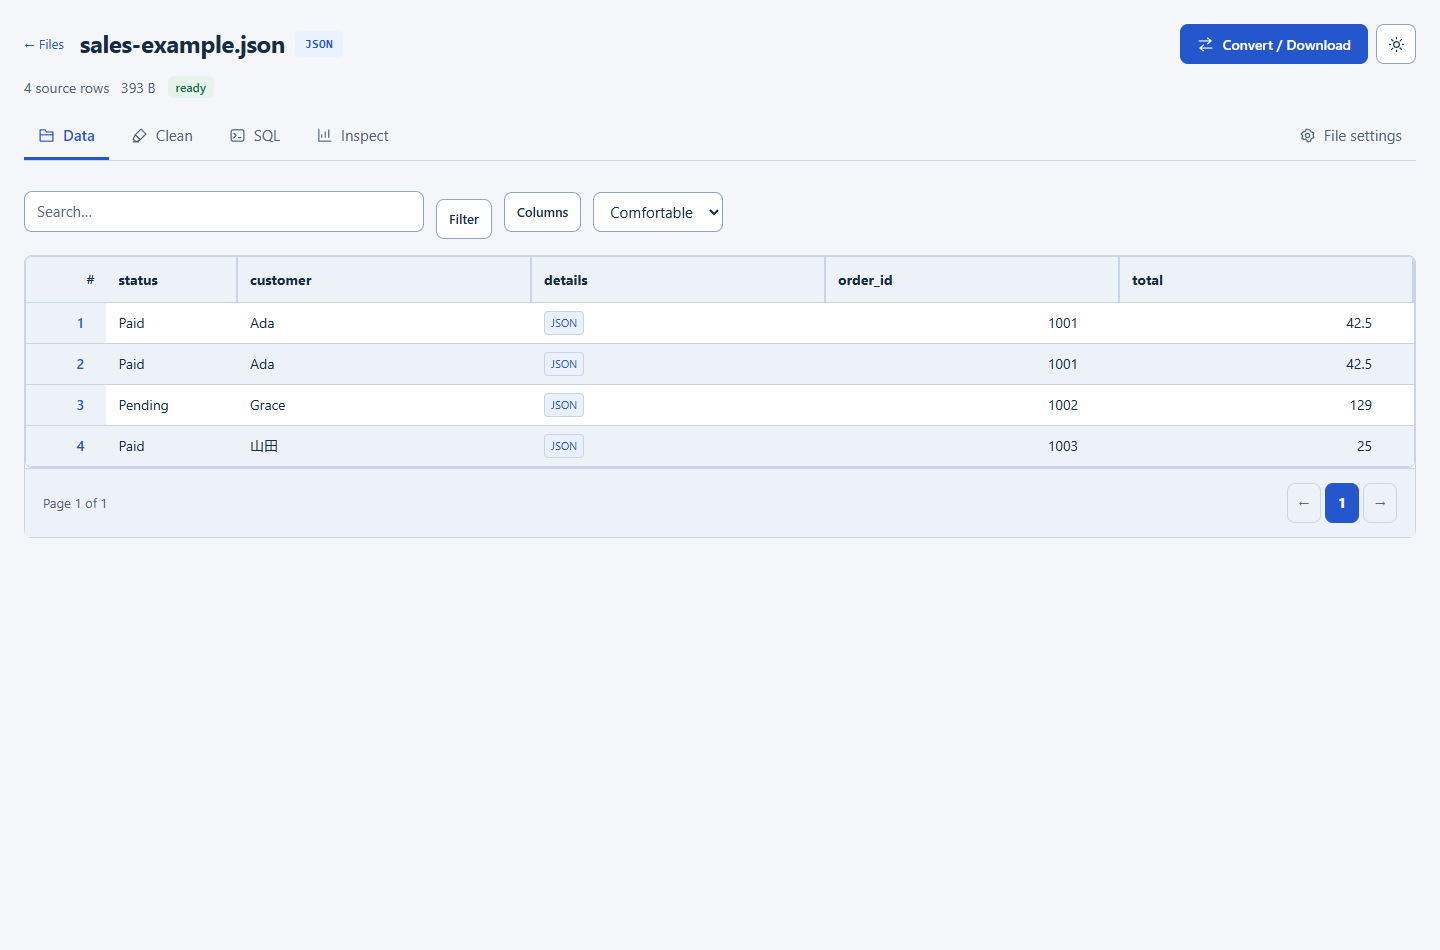
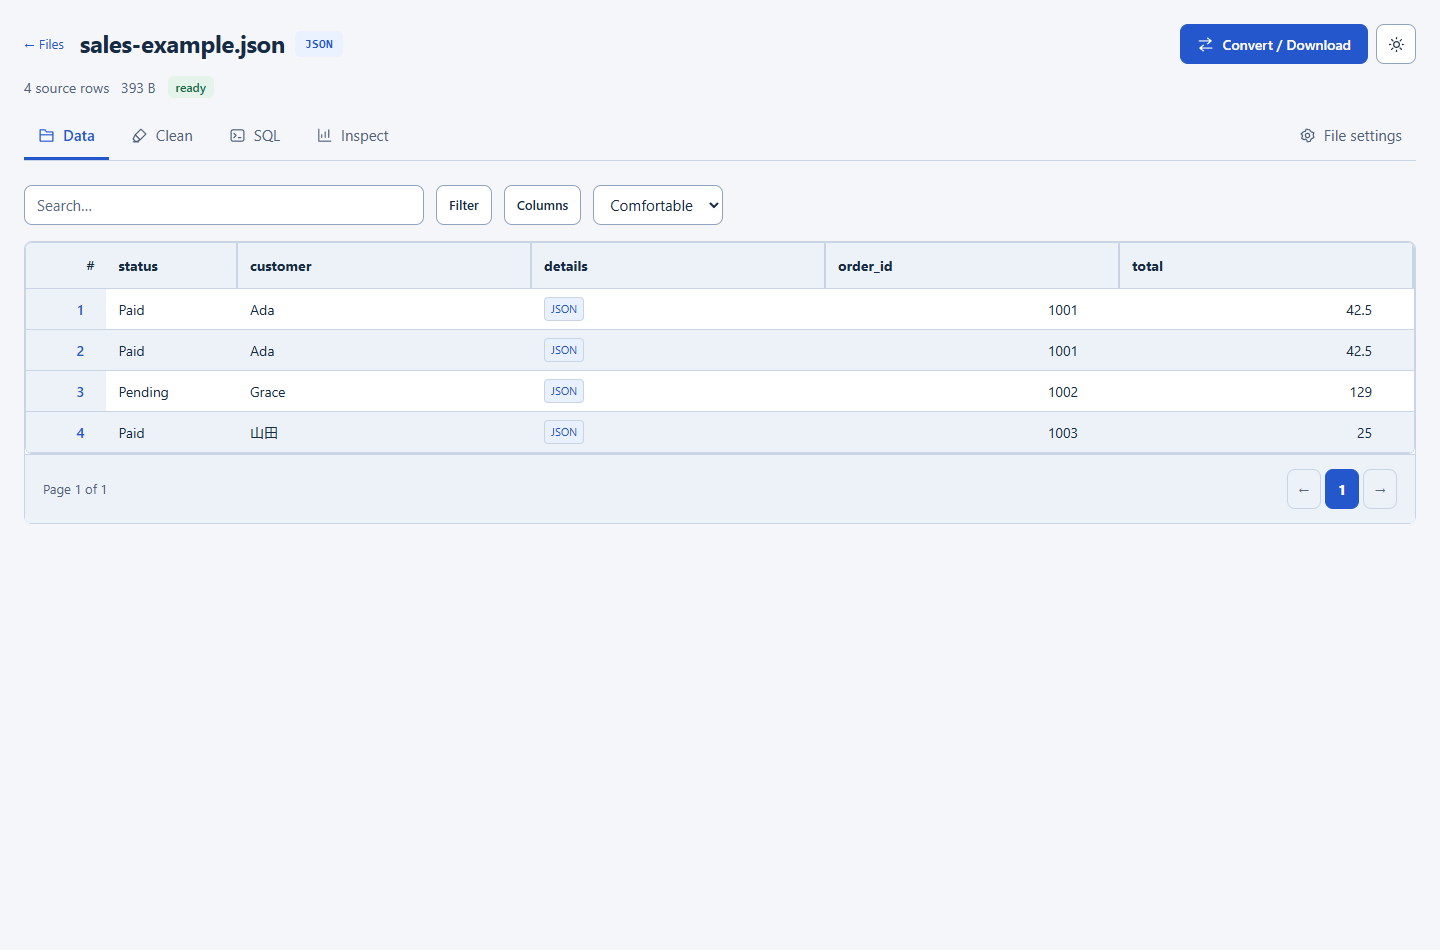
Fix Data toolbar alignment and cover expanded controls

Changed region(s): [[0.0312, 0.1832, 0.9688, 0.5495]]

diff --git a/scripts/file-workspace-checks.js b/scripts/file-workspace-checks.js
@@ -24,6 +24,38 @@ async (page, artifactDir) => {
    return [...new Set(issues)];
   });if(problems.length)throw Error(label+': '+problems.join('; '));
  };
+ const toolbarLayout=async (scope,label)=>{
+  const problems=await scope.locator('.sheet-query-bar').evaluateAll(groups=>{
+   const issues=[];
+   for(const group of groups){
+    if(!group.checkVisibility())continue;
+    const controls=[...group.querySelectorAll('.sheet-search input,.toolbar-disclosure>summary,.sheet-density select,.sheet-search-submit')].filter(e=>e.checkVisibility()).map(e=>({name:e.getAttribute('aria-label')||e.tagName,box:e.getBoundingClientRect()}));
+    for(let i=0;i<controls.length;i++)for(let j=i+1;j<controls.length;j++){
+     const a=controls[i],b=controls[j],ac=(a.box.top+a.box.bottom)/2,bc=(b.box.top+b.box.bottom)/2;
+     if(Math.abs(ac-bc)<20&&(Math.abs(a.box.top-b.box.top)>1||Math.abs(a.box.bottom-b.box.bottom)>1))issues.push('Misaligned '+a.name+' / '+b.name);
+    }
+   }return issues;
+  });if(problems.length)throw Error(label+': '+problems.join('; '));
+ };
+ const checkToolbar=async (scope,label)=>{
+  for(const width of [320,390,768,1024,1440,2560]){
+   await page.setViewportSize({width,height:1000});
+   for(const theme of ['light','dark']){
+    await page.evaluate(t=>document.documentElement.dataset.theme=t,theme);
+    for(const density of ['compact','comfortable']){
+     await scope.locator('[data-sheet-density]').selectOption(density);
+     await toolbarLayout(scope,label+' '+width+' '+theme+' '+density);
+    }
+   }
+   for(const name of ['Filter and sort','Columns and table options']){
+    const summary=scope.getByLabel(name,{exact:true});await summary.click();
+    const fits=await summary.evaluate(el=>{const details=el.parentElement,bar=details.closest('.sheet-query-bar');return details.getBoundingClientRect().width>=bar.getBoundingClientRect().width-1&&getComputedStyle(details).marginTop==='0px';});
+    if(!fits)throw Error(label+' expanded '+name+' has cramped width or extra margin at '+width);
+    await summary.click();
+   }
+  }
+  await page.setViewportSize({width:1440,height:1000});
+ };
  const open=async key=>{
   if(['insights','quality','schema','raw'].includes(key)){await page.locator('.workspace-primary-views [data-workspace-target=insights]').click();await settled();if(key!=='insights'){await page.locator('[data-workspace-group=inspect] [data-workspace-target='+key+']').click();await settled();}}
   else if(key==='settings'){if(await page.locator('.workspace-file-action').isVisible())await page.locator('.workspace-file-action').click();else{await page.locator('.workspace-more>summary').click();await page.locator('.workspace-extra-tools [data-workspace-target=settings]').click();}await settled();}
@@ -38,10 +70,11 @@ async (page, artifactDir) => {
   if(await page.locator('link[rel=stylesheet]').count()!==3)throw Error('Legacy stylesheet layers still load');
   await page.locator('#detail-content .sheet-data').waitFor();
   for(const width of [320,390,768,1024,1440,2560]){await page.setViewportSize({width,height:1000});await fit('Data '+width);}
-  await page.setViewportSize({width:1440,height:1000});
+  await checkToolbar(page.locator('#detail-content'),'Original toolbar');
   await open('clean');if(await page.locator('#workspace-original').getAttribute('open')!==null)throw Error('Original starts expanded in Clean');
   await pane.getByLabel('Change',{exact:true}).selectOption('trim');await pane.getByLabel('Column',{exact:true}).selectOption('name');await pane.getByRole('button',{name:'Apply change',exact:true}).click();
   await result.locator('.sheet-data').waitFor();await result.locator('[data-cleaned-total="60"]').waitFor();
+  await checkToolbar(result,'Cleaned toolbar');
   if(await pane.locator('[data-cleanup-preview],table').count())throw Error('Cleanup still duplicates the sample inside the controls');
   if(await page.locator('#detail-content').isVisible())throw Error('Original table should be collapsed in Clean');
   await page.locator('#workspace-original>summary').click();await page.locator('#detail-content').waitFor({state:'visible'});
@@ -82,7 +115,7 @@ async (page, artifactDir) => {
   if((await(await page.request.get(base+'/collections/'+id+'/export?original=1')).text())!==input)throw Error('Original source bytes changed');
   await open('sql');const draft='SELECT id FROM "c_'+id+'" LIMIT 2';await pane.locator('#sql-editor').fill(draft);await page.reload();await pane.locator('#sql-editor').waitFor();if(await pane.locator('#sql-editor').inputValue()!==draft||await sqlResult.locator('table').count())throw Error('Restored SQL lost draft or executed automatically');
   await page.keyboard.press('Escape');if(await pane.isVisible())throw Error('Escape does not return to Data');
-  const native=await page.context().browser().newContext({javaScriptEnabled:false});try{const p=await native.newPage();await p.goto(base+'/collections/'+id+'/changes');if(await p.locator('#workspace-original').getAttribute('open')!==null)throw Error('Native original starts expanded');await p.locator('#workspace-original>summary').click();await p.locator('#detail-content tbody tr').first().waitFor();await p.goto(base+'/collections/'+id+'/sql');await p.locator('#sql-editor').fill('SELECT COUNT(*) AS total FROM "c_'+id+'"');await p.getByRole('button',{name:'Run query',exact:true}).click();await p.locator('#workspace-sql-result').getByRole('cell',{name:'60',exact:true}).waitFor();await p.getByRole('link',{name:'Convert / Download',exact:true}).click();await p.locator('#collection-download-format').waitFor();}finally{await native.close();}
+  const native=await page.context().browser().newContext({javaScriptEnabled:false});try{const p=await native.newPage();await p.goto(base+'/collections/'+id);await p.setViewportSize({width:1440,height:1000});await toolbarLayout(p.locator('#detail-content'),'Native toolbar');await p.goto(base+'/collections/'+id+'/changes');if(await p.locator('#workspace-original').getAttribute('open')!==null)throw Error('Native original starts expanded');await p.locator('#workspace-original>summary').click();await p.locator('#detail-content tbody tr').first().waitFor();await p.goto(base+'/collections/'+id+'/sql');await p.locator('#sql-editor').fill('SELECT COUNT(*) AS total FROM "c_'+id+'"');await p.getByRole('button',{name:'Run query',exact:true}).click();await p.locator('#workspace-sql-result').getByRole('cell',{name:'60',exact:true}).waitFor();await p.getByRole('link',{name:'Convert / Download',exact:true}).click();await p.locator('#collection-download-format').waitFor();}finally{await native.close();}
   console.log('Focused workspace passed: all full-width views, expandable original, preserved drafts/pagination, errors, exact exports, six widths, both themes, zoom and no-JavaScript views.');
  }catch(error){await page.screenshot({path:artifactDir+'/focused-failure.png',fullPage:true});console.log('Focused failure: '+page.url()+' '+(await pane.textContent()).slice(-1400));throw error;}
  finally{if(id){await page.goto(base+'/collections');const csrf=await page.locator('#import input[name=csrf]').inputValue();await page.request.post(base+'/collections/'+id+'/delete',{form:{csrf,confirm:'delete'}});}}

diff --git a/ui/static/css/workspace.css b/ui/static/css/workspace.css
@@ -13,10 +13,6 @@
   padding: 8px 0 0;
 }
 
-.collection-workspace .sheet-filters {
-  margin-top: 14px;
-}
-
 .collection-workspace .filter-help {
   margin-top: 14px;
 }

diff --git a/README.md b/README.md
@@ -4,7 +4,7 @@
 
 FluxPort is a self-hosted workspace for CSV, JSON, Excel, Parquet, YAML, XML, NDJSON and TOML. Open a file, inspect its rows, remove duplicates or fix values, and download the result. Developers can reuse saved steps, query datasets with DuckDB, automate work from the CLI and publish REST endpoints.
 
-[Try the demo](https://fluxport.ppxl.dev) · [Download 0.3.16](https://github.com/PhantomPixelDev/FluxPort/releases/tag/v0.3.16) · [Documentation](docs/reference.md) · [Report a bug](https://github.com/PhantomPixelDev/FluxPort/issues/new/choose)
+[Try the demo](https://fluxport.ppxl.dev) · [Download 0.3.17](https://github.com/PhantomPixelDev/FluxPort/releases/tag/v0.3.17) · [Documentation](docs/reference.md) · [Report a bug](https://github.com/PhantomPixelDev/FluxPort/issues/new/choose)
 
 [![Checks](https://github.com/PhantomPixelDev/FluxPort/actions/workflows/checks.yml/badge.svg?branch=main)](https://github.com/PhantomPixelDev/FluxPort/actions/workflows/checks.yml) · [MIT license](LICENSE)
 
@@ -29,19 +29,19 @@ The online demo is a shared public workspace. Install your own instance for priv
 
 ## Get started
 
-Download a verified executable and [checksums](https://github.com/PhantomPixelDev/FluxPort/releases/download/v0.3.16/SHA256SUMS):
+Download a verified executable and [checksums](https://github.com/PhantomPixelDev/FluxPort/releases/download/v0.3.17/SHA256SUMS):
 
 | Platform | Download | Start |
 | --- | --- | --- |
-| Windows amd64 | [fluxport-windows-amd64.exe](https://github.com/PhantomPixelDev/FluxPort/releases/download/v0.3.16/fluxport-windows-amd64.exe) | `./fluxport-windows-amd64.exe serve` |
-| Linux amd64 | [fluxport-linux-amd64](https://github.com/PhantomPixelDev/FluxPort/releases/download/v0.3.16/fluxport-linux-amd64) | `chmod +x fluxport-linux-amd64 && ./fluxport-linux-amd64 serve` |
+| Windows amd64 | [fluxport-windows-amd64.exe](https://github.com/PhantomPixelDev/FluxPort/releases/download/v0.3.17/fluxport-windows-amd64.exe) | `./fluxport-windows-amd64.exe serve` |
+| Linux amd64 | [fluxport-linux-amd64](https://github.com/PhantomPixelDev/FluxPort/releases/download/v0.3.17/fluxport-linux-amd64) | `chmod +x fluxport-linux-amd64 && ./fluxport-linux-amd64 serve` |
 
 Open **http://127.0.0.1:8080**. The executable includes the UI and DuckDB; it needs no Go compiler, Node.js runtime or external database. Linux binaries are built on Debian 12 and require the system C/C++ runtime (`libstdc++6`); release smoke checks run on Ubuntu 24.04. Windows binaries use the standard Windows runtime.
 
 For Docker, clone this repository and run:
 
 ```sh
-docker compose build --build-arg VERSION=0.3.16
+docker compose build --build-arg VERSION=0.3.17
 docker compose up -d
 ```
 

diff --git a/docs/reference.md b/docs/reference.md
@@ -1,6 +1,8 @@
 # FluxPort
 
-### Calm workspace (0.3.16)
+### Calm workspace (0.3.17)
+
+The Data toolbar keeps Search, Filter, Columns and density aligned. Filter and column settings expand across the workspace, on original and cleaned data.
 
 Files, collection views and advanced pages share explicit field, button and table components. New tables default to Comfortable density; existing browser preferences are retained. Filters and column controls expand into the main workspace. Clean exposes rows to clean and Apply change, with saved steps and joins under Advanced. Convert / Download groups Data, Rows and Format and shows the submitted job in place. File settings separates Name, Source and deletion; API, saved views and collection history remain accessible through its navigation.
 
